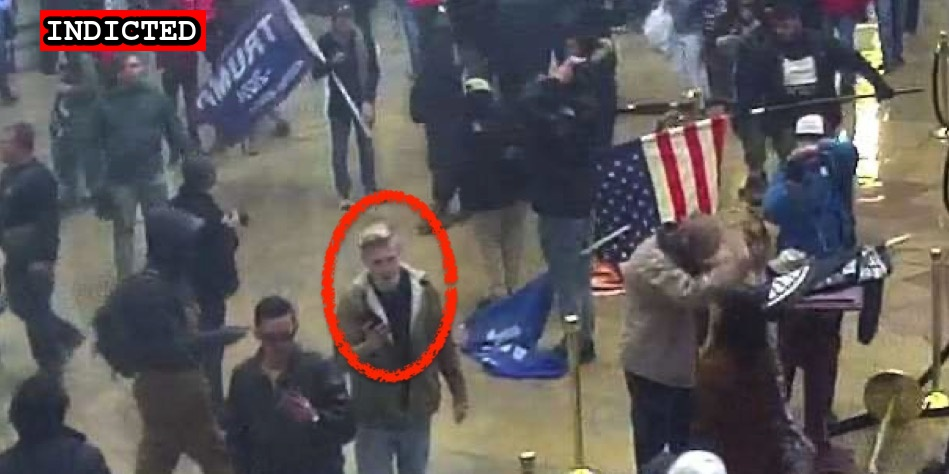
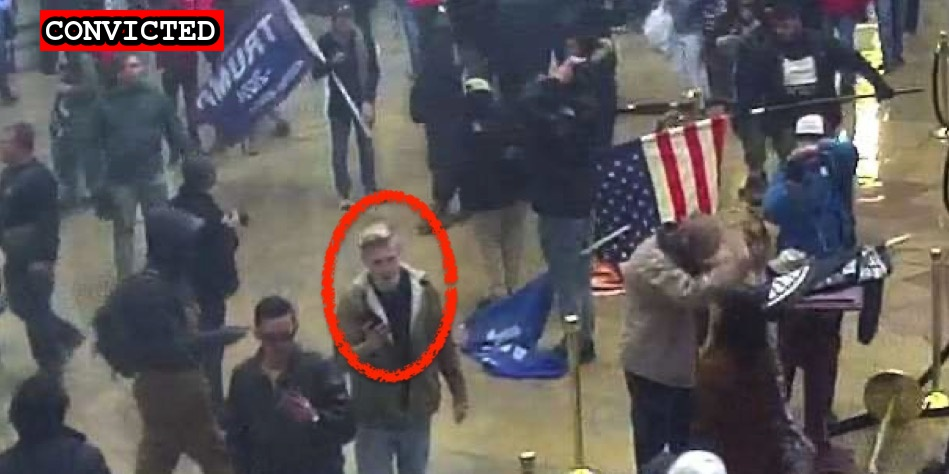
Latest import

Changed region(s): [[0.0306, 0.0, 0.2445, 0.1181]]

diff --git a/docs/_suspects/leonard-ridge.md b/docs/_suspects/leonard-ridge.md
@@ -4,11 +4,11 @@ lastName: Ridge
 hashtag: LeoRidge4
 aka: Pearce Ridge
 residence: Pennsylvania
-status: Indicted
+status: Convicted
 date: 2021-04-20
 charged: 2021-04-20
 indicted: 2021-06-16
-convicted:
+convicted: 2021-10-01
 sentenced:
 dismissed:
 deceased:
@@ -34,9 +34,14 @@ published: true
 caseNumber:
 videos:
 charges:
+  - code: 18 USC § 1752(a)(1)
+    title: Entering a restricted building or grounds
+    url: https://www.law.cornell.edu/uscode/text/18/1752
+    felony: false
 sentence:
 ---
 
 - [News Report](https://6abc.com/leonard-ridge-capitol-riot-bucks-county-pennsylvania-snapchat/10675548/)
 - [Statement of Facts](https://www.justice.gov/usao-dc/case-multi-defendant/file/1396541/download)
 - [Indictment](https://extremism.gwu.edu/sites/g/files/zaxdzs2191/f/Leonard%20Pearso%20Ridge%20IV%20Indictment.pdf)
+- [Plea Agreement](https://extremism.gwu.edu/sites/g/files/zaxdzs2191/f/Leonard%20Pearson%20Ridge%20IV%20Plea%20Agreement.pdf)

diff --git a/docs/_suspects/meghan-rutledge.md b/docs/_suspects/meghan-rutledge.md
@@ -1,0 +1,41 @@
+---
+name: Meghan Rutledge
+lastName: Rutledge
+hashtag:
+aka:
+residence: Virginia
+status: Charged
+date: 2021-10-05
+charged: 2021-10-05
+indicted:
+convicted:
+sentenced:
+dismissed:
+deceased:
+plea_hearing:
+sentencing:
+age:
+occupation:
+affiliations:
+jurisdiction: Federal
+image: /images/preview/meghan-rutledge.jpg
+suspect: meghan-rutledge.jpg
+booking:
+courtroom:
+courthouse:
+raid:
+perpwalk:
+quote:
+title: Meghan Rutledge charged on October 5, 2021
+description: Click for latest case details. Suspects innocent until proven guilty.
+author: seditiontrack
+layout: suspect
+published: false
+caseNumber:
+videos:
+charges:
+sentence:
+---
+
+- [News Report]()
+- [Complaint](https://extremism.gwu.edu/sites/g/files/zaxdzs2191/f/Meghan%20Rutledge%20and%20William%20Bostic%20Jr%20Criminal%20Complaint.pdf)

diff --git a/docs/_suspects/william-bostic.md b/docs/_suspects/william-bostic.md
@@ -1,0 +1,41 @@
+---
+name: William Bostic
+lastName: Bostic
+hashtag:
+aka:
+residence: Virginia
+status: Charged
+date: 2021-10-05
+charged: 2021-10-05
+indicted:
+convicted:
+sentenced:
+dismissed:
+deceased:
+plea_hearing:
+sentencing:
+age:
+occupation:
+affiliations:
+jurisdiction: Federal
+image: /images/preview/william-bostic.jpg
+suspect: william-bostic.jpg
+booking:
+courtroom:
+courthouse:
+raid:
+perpwalk:
+quote:
+title: William Bostic charged on October 5, 2021
+description: Click for latest case details. Suspects innocent until proven guilty.
+author: seditiontrack
+layout: suspect
+published: false
+caseNumber:
+videos:
+charges:
+sentence:
+---
+
+- [News Report]()
+- [Complaint](https://extremism.gwu.edu/sites/g/files/zaxdzs2191/f/Meghan%20Rutledge%20and%20William%20Bostic%20Jr%20Criminal%20Complaint.pdf)

diff --git a/docs/_suspects/jason-comeau.md b/docs/_suspects/jason-comeau.md
@@ -1,0 +1,41 @@
+---
+name: Jason Comeau
+lastName: Comeau
+hashtag:
+aka:
+residence: Florida
+status: Charged
+date: 2021-10-13
+charged: 2021-10-13
+indicted:
+convicted:
+sentenced:
+dismissed:
+deceased:
+plea_hearing:
+sentencing:
+age:
+occupation:
+affiliations:
+jurisdiction: Federal
+image: /images/preview/jason-comeau.jpg
+suspect: jason-comeau.jpg
+booking:
+courtroom:
+courthouse:
+raid:
+perpwalk:
+quote:
+title: Jason Comeau charged on October 13, 2021
+description: Click for latest case details. Suspects innocent until proven guilty.
+author: seditiontrack
+layout: suspect
+published: false
+caseNumber:
+videos:
+charges:
+sentence:
+---
+
+- [News Report]()
+- [Complaint](https://extremism.gwu.edu/sites/g/files/zaxdzs2191/f/Jason%20Michael%20Comeau%20Criminal%20Complaint.pdf)
